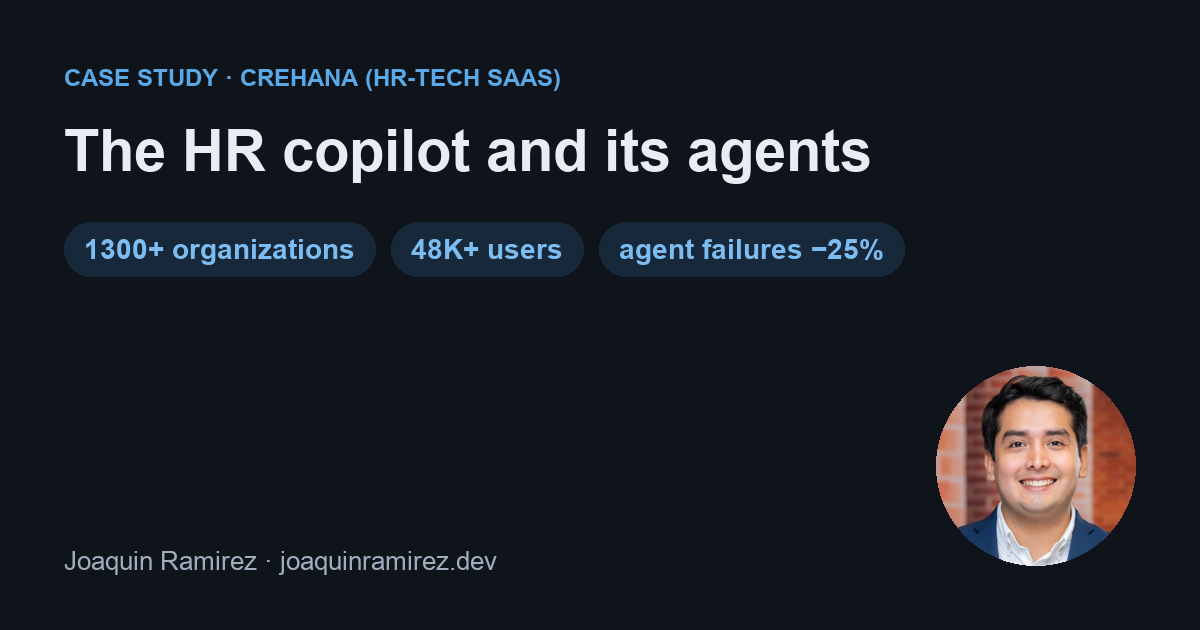
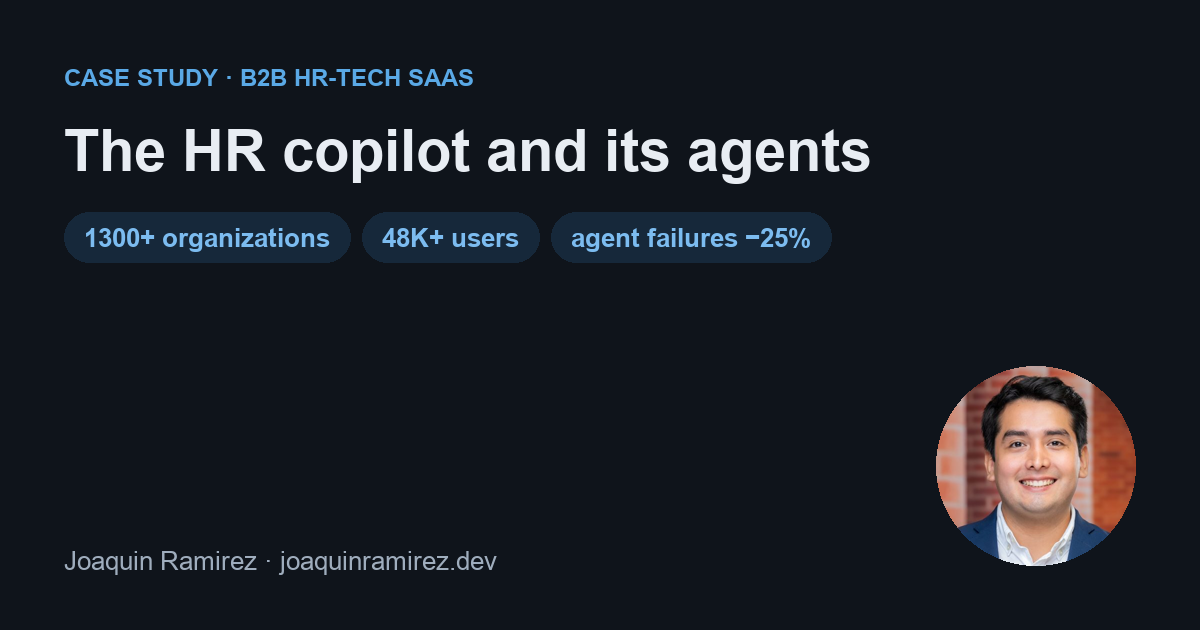
Lead with sector and scale, not employer names
- Hero: the copilot and agents of a Latin American B2B HR-tech SaaS (1300+ organizations), plus real-time fraud detection across 35 financial institutions
- Start here and share cards label work by sector (B2B HR-tech SaaS, IT consulting)
- Experience keeps company names with clearer descriptors
- Home share card: copilot scale plus fraud detection; case study cards regenerated, cache-busted

Changed region(s): [[0.0308, 0.3317, 0.7708, 0.4524], [0.185, 0.0905, 0.4625, 0.1508]]

diff --git a/tools/make_og.py b/tools/make_og.py
@@ -41,7 +41,10 @@ mets = (d.get("pageMetrics") or d.get("metrics") or [])[:3]
 W, H = 1200, 630
 c = Image.new("RGB", (W, H), "#0f141b"); g = ImageDraw.Draw(c)
 textw = 520 if shot else 1050
-label = ("CASE STUDY · " + d["where"].split(" · ")[0]) if kind == "work" else "PROJECT"
+# Label by sector, not employer name: US readers do not know the companies (ruling Nov 13).
+SECTOR = {"Crehana": "B2B HR-tech SaaS", "Canvia": "IT consulting", "APTIM": "US engineering firm", "Belcorp": "Consumer goods"}
+emp = d["where"].split(" · ")[0].split(" (")[0]
+label = ("CASE STUDY · " + SECTOR.get(emp, emp)) if kind == "work" else "PROJECT"
 g.text((64, 64), label.upper(), font=bold(24), fill="#5aa9e6")
 y = 118
 for ln in wrap(g, title, bold(52 if shot else 58), textw): g.text((64, y), ln, font=bold(52 if shot else 58), fill="#e8edf3"); y += 64

diff --git a/tools/make_home_og.py b/tools/make_home_og.py
@@ -19,9 +19,9 @@ c = Image.new("RGB", (W, H), "#0f141b"); g = ImageDraw.Draw(c)
 g.rectangle((0, 0, 10, H), fill="#5aa9e6")
 g.text((64, 64), "MACHINE LEARNING ENGINEER · DATA SCIENTIST", font=bold(24), fill="#5aa9e6")
 g.text((64, 112), "Joaquin Ramirez", font=bold(76), fill="#e8edf3")
-g.text((64, 214), "Led Crehana's GenAI copilot and its agents", font=reg(34), fill="#c9d3de")
+g.text((64, 214), "Led a GenAI copilot used by 1300+ organizations", font=reg(34), fill="#c9d3de")
 y, x = 290, 64
-for m in ["1300+ organizations", "48K+ users", "adoption 9x"]:
+for m in ["48K+ users", "adoption 9x", "fraud detection · 35 banks"]:
     f = bold(26); tw = g.textlength(m, font=f)
     g.rounded_rectangle((x, y, x + tw + 40, y + 50), radius=25, fill="#16283a")
     g.text((x + 20, y + 11), m, font=f, fill="#7cbcf0"); x += tw + 52

diff --git a/src/content/work/hr-copilot.md b/src/content/work/hr-copilot.md
@@ -1,6 +1,6 @@
 ---
 title: "AI copilot and agents for HR teams"
-where: "Crehana (HR-tech SaaS) · Senior Machine Learning Engineer · Feb 2025 – Sep 2026"
+where: "Crehana (B2B HR-tech SaaS) · Senior Machine Learning Engineer · Feb 2025 – Sep 2026"
 summary: "I led development of Crehana's GenAI copilot and the agentic systems behind it (LangChain, LangGraph), used across Latin America. When our data-extraction agent kept failing in production, I redesigned its routing and added reliability safeguards, and failures dropped 25%. Adoption of the whole copilot grew 9x."
 metrics: ["1300+ organizations", "48K+ users", "agent failures −25%", "adoption 9x"]
 stack: "LangChain · LangGraph · OpenAI · Python · AWS"
